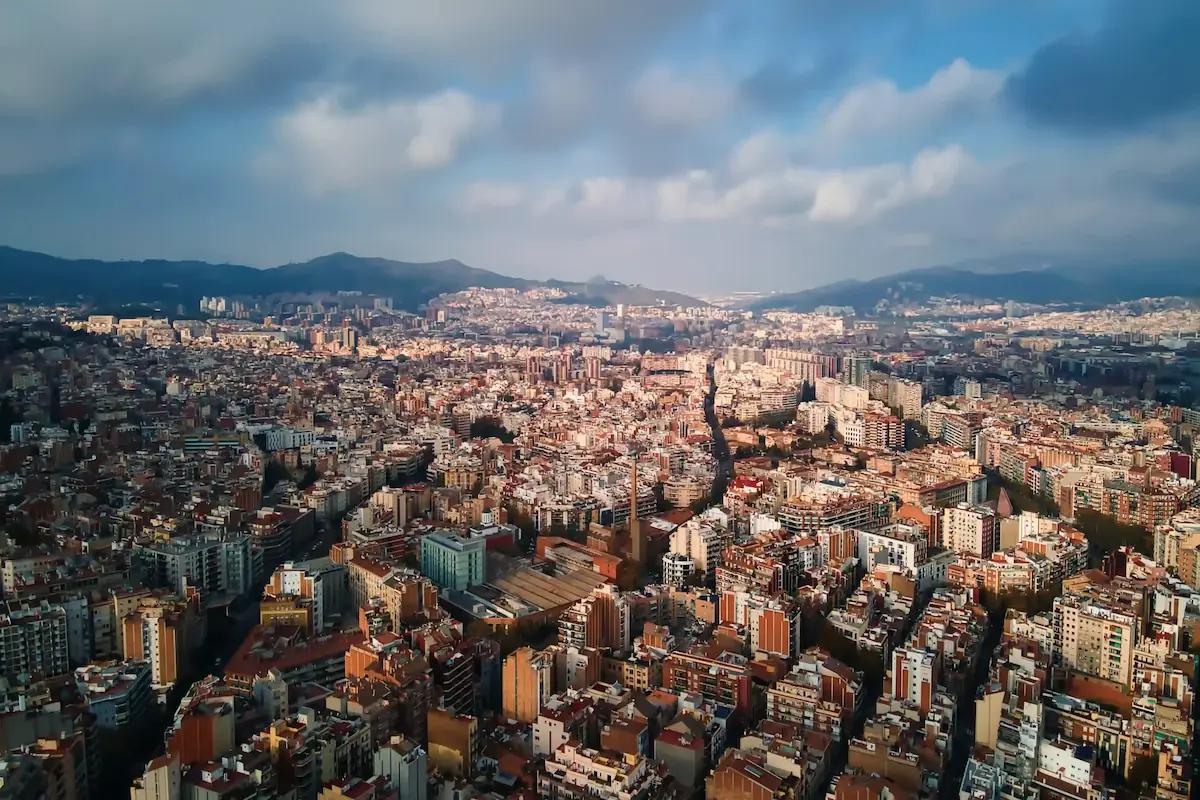
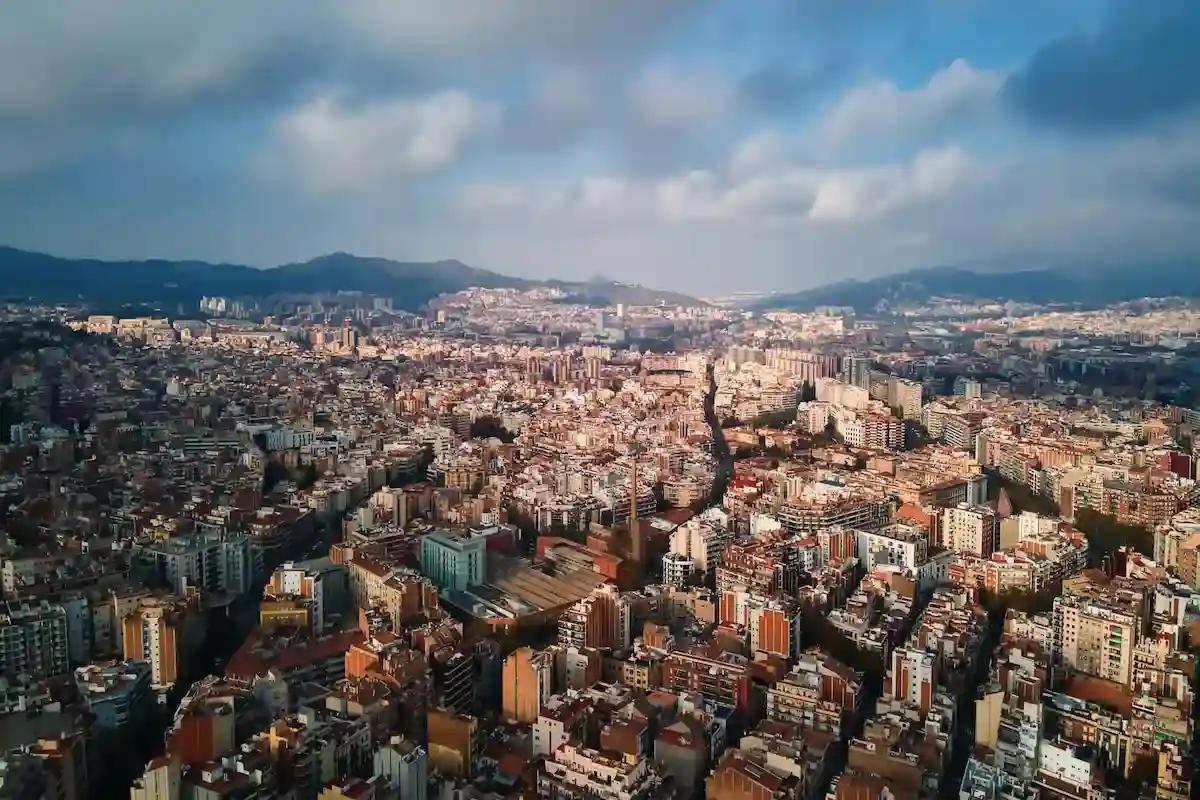
Updated the JSLint and Destinations.html HTML validation evidence after updating app.js with lazy loading for images and optimising the code to perform at 90%+ when lighthouse testing either for mobile or desktop. Compressed the images as ell to improve lighthouse results

diff --git a/destinations.html b/destinations.html
@@ -2,25 +2,35 @@
 <html lang="en">
 <head>
     <meta charset="UTF-8">
-    <meta http-equiv="X-UA-Compatible" content="ie=edge">
     <meta name="viewport" content="width=device-width, initial-scale=1.0">
     <meta name="description" content="Browse popular holiday destinations and explore local attractions.">
-    <meta name="keywords" content="travel, holiday, destination, guide, attractions, accommodations, restaurants">
     <title>Popular Destinations - Destination Guide</title>
 
+    <!-- Preconnects (DNS & TCP warmup) -->
+    <link rel="preconnect" href="https://cdn.jsdelivr.net" crossorigin> <!-- Added for Bootstrap -->
     <link rel="preconnect" href="https://fonts.googleapis.com">
     <link rel="preconnect" href="https://fonts.gstatic.com" crossorigin>
-        <link href="https://cdn.jsdelivr.net/npm/bootstrap@5.3.0/dist/css/bootstrap.min.css" rel="stylesheet">
-    <link href="https://fonts.googleapis.com/css2?family=Roboto:wght@400;500;700&display=swap" rel="stylesheet">
-    <script>
-        (function() {
-            var base = window.location.hostname.indexOf("github.io") !== -1
-                ? "/Milestone-Project-2--destination-guide/"
-                : "/";
-            document.write('<link rel="icon" type="image/webp" href="' + base + 'assets/favicon/travel.webp">');
-            document.write('<link rel="stylesheet" href="' + base + 'assets/css/styles.css">');
-        })();
-    </script>
+    
+    <!-- Render-blocking CSS -->
+    <link href="https://cdn.jsdelivr.net/npm/bootstrap@5.3.0/dist/css/bootstrap.min.css" rel="stylesheet">
+    
+    <!-- Non-blocking CSS & fonts (Preload trick) -->
+    <!-- Custom Styles -->
+    <link rel="preload" href="assets/css/styles.css" as="style" onload="this.onload=null;this.rel='stylesheet'">
+    <noscript><link rel="stylesheet" href="assets/css/styles.css"></noscript>
+
+    <!-- Google Fonts Optimized -->
+    <link rel="preload" href="https://fonts.googleapis.com/css2?family=Roboto:wght@400;500;700&display=swap" as="style" onload="this.onload=null;this.rel='stylesheet'">
+    <noscript><link rel="stylesheet" href="https://fonts.googleapis.com/css2?family=Roboto:wght@400;500;700&display=swap"></noscript>
+
+    <link rel="icon" type="image/webp" href="assets/favicon/travel.webp">
+
+    <!-- CLS prevention style -->
+    <style>
+        #destList { min-height: 80vh; display: flex; align-items: flex-start; }
+        #skip-link { position: absolute; left: -10000px; top: auto; width: 1px; height: 1px; overflow: hidden; }
+        #skip-link:focus { position: static; width: auto; height: auto; }
+    </style>
 </head>
 
 <body>
@@ -42,15 +52,14 @@
     </header>
 
     <main class="container py-5 mt-5" id="main-content">
-        
         <div class="mb-5 text-center text-dark pt-3">
             <h1 id="destinations-heading" class="fw-bold">Popular Holiday Destinations</h1>
             <p class="lead text-muted mx-auto" style="max-width: 700px;">Browse our curated selection of popular destinations or click any destination to search for attractions, restaurants, and more.</p>
         </div>
 
         <div class="row g-4" id="destList" role="region" aria-label="Destination cards grid">
-             </div>
-        
+             <!-- JS content will inject here -->
+        </div>
     </main>
 
     <footer>
@@ -59,14 +68,8 @@
         </div>
     </footer>
 
-    <script src="https://cdn.jsdelivr.net/npm/bootstrap@5.3.0/dist/js/bootstrap.bundle.min.js"></script>
-    <script>
-        (function() {
-            var base = window.location.hostname.indexOf("github.io") !== -1
-                ? "/Milestone-Project-2--destination-guide/"
-                : "/";
-            document.write('<script src="' + base + 'assets/js/app.js"><\/script>');
-        })();
-    </script>
+    <!-- Optimized script loading -->
+    <script src="https://cdn.jsdelivr.net/npm/bootstrap@5.3.0/dist/js/bootstrap.bundle.min.js" defer></script>
+    <script src="assets/js/app.js" defer></script>
 </body>
 </html>

diff --git a/assets/js/app.js b/assets/js/app.js
@@ -77,8 +77,6 @@ const sampleCities = [
 
 /**
  * Validates search input to prevent empty, short, or invalid formats.
- * @param {string} query - The search string
- * @returns {Object} Object containing validity boolean and error message
  */
 function isValidSearchQuery(query) {
     if (!query || query.trim().length === 0) {
@@ -124,7 +122,6 @@ function isValidSearchQuery(query) {
     };
 }
 
-// Populate a datalist element with suggestion options
 function populateSuggestions(list) {
     const data = document.getElementById("citySuggestions");
     if (!data) {
@@ -139,10 +136,6 @@ function populateSuggestions(list) {
     });
 }
 
-/**
- * Load recent searches from localStorage
- * @returns {Array} Array of recent city searches
- */
 function getRecentSearches() {
     const stored = localStorage.getItem("recentSearches");
     return (
@@ -152,10 +145,6 @@ function getRecentSearches() {
     );
 }
 
-/**
- * Save a search to recent searches (max 5 items)
- * @param {string} city - City name to save
- */
 function saveRecentSearch(city) {
     if (!city) {
         return;
@@ -170,9 +159,6 @@ function saveRecentSearch(city) {
     localStorage.setItem("recentSearches", JSON.stringify(recent));
 }
 
-/**
- * Renders the recent searches list into the UI
- */
 function renderRecentSearches() {
     const container = document.getElementById("recentSearchesContainer");
     const list = document.getElementById("recentSearchesList");
@@ -294,10 +280,6 @@ function handleMapError() {
     window.location.href = "404.html";
 }
 
-/**
- * Displays a custom error message to the user when search validation fails
- * @param {string} message - The error message to show
- */
 function displaySearchError(message) {
     const results = document.getElementById("results");
     if (!results) {
@@ -322,7 +304,6 @@ window.showCityResults = function (city) {
         return;
     }
 
-    // SECURE: Create loading message via DOM methods to prevent XSS
     results.innerHTML = "";
     const loadingDiv = document.createElement("div");
     loadingDiv.className = "alert alert-info mx-auto mt-4";
@@ -344,7 +325,6 @@ window.showCityResults = function (city) {
         const iframe = document.createElement("iframe");
         const q = window.encodeURIComponent(city);
 
-        // SECURE: Use correct, secure Google Maps Embed API endpoint
         iframe.src = [
             "https://www.google.com/maps/embed/v1/search?key=",
             GMAP_API_KEY,
@@ -352,6 +332,8 @@ window.showCityResults = function (city) {
             q
         ].join("");
 
+        // IMPLEMENTED: Lazy loading for the Google Map iframe
+        iframe.loading = "lazy";
         iframe.allowFullscreen = true;
 
         mapContainer.appendChild(iframe);
@@ -401,9 +383,11 @@ document.addEventListener("DOMContentLoaded", function () {
             col.className = "col-12 col-sm-6 col-md-4 mb-4";
 
             col.innerHTML = [
-                "<div class='card h-100 card-destination'>",
-                "<img src='", city.image, "' class='card-img-top' ",
-                "alt='", city.alt, "'>",
+                "<div class='card h-100 card-destination'>",
+                // IMPLEMENTED: Added loading='lazy' to the image tag
+                "<img src='", city.image,
+                "' class='card-img-top' loading='lazy' ",
+                "alt='", city.alt, "'>",
                 "<div class='card-body d-flex flex-column'>",
                 "<h5 class='card-title text-center fw-bold'>",
                 city.name, "</h5>",
